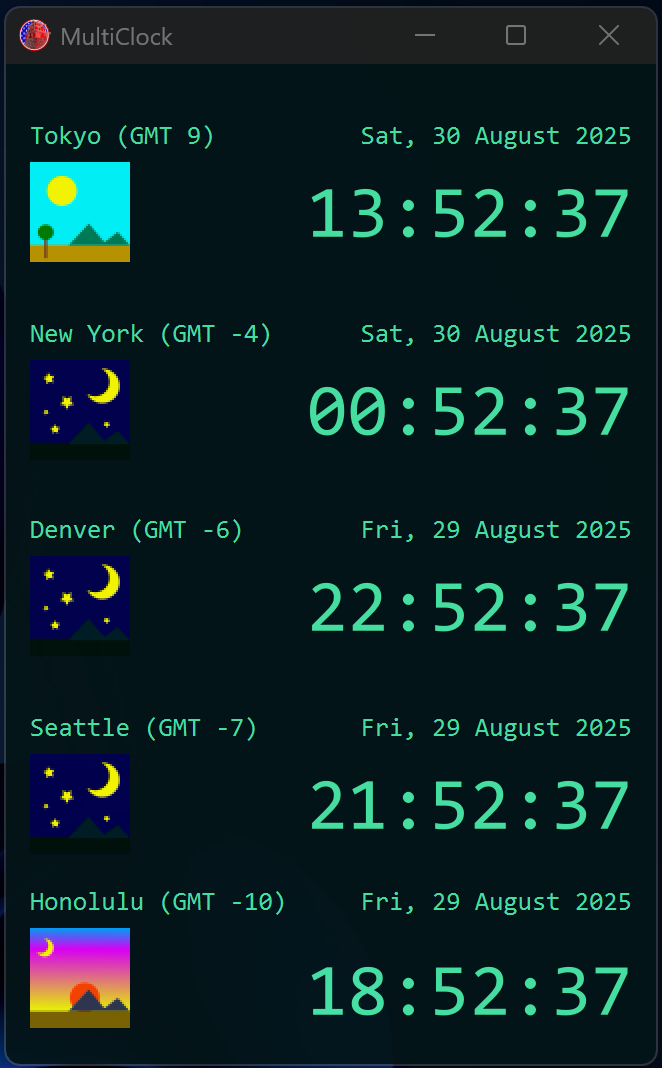
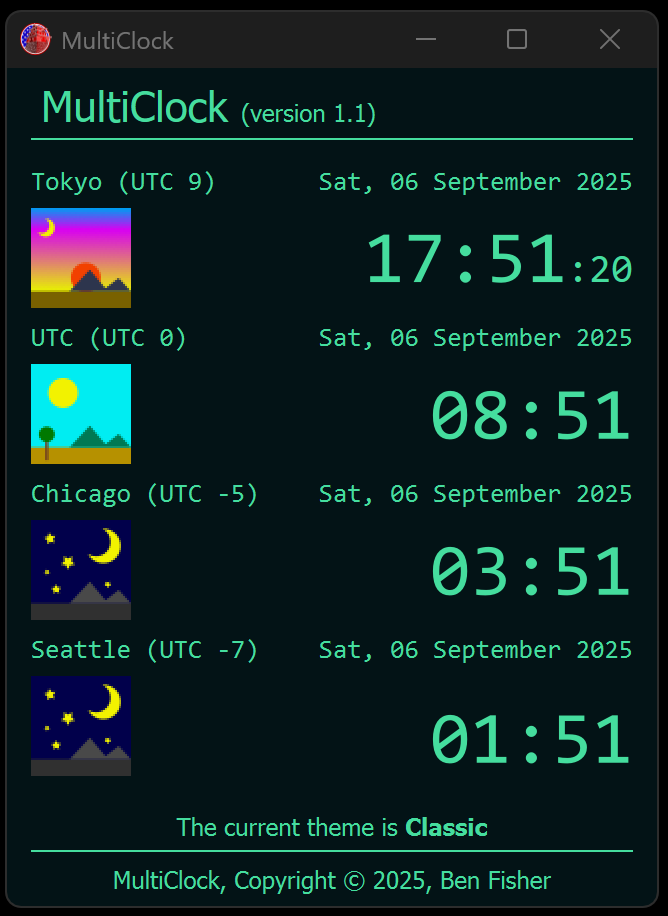
analog clock

diff --git a/multiclock_analog.py b/multiclock_analog.py
@@ -1,0 +1,233 @@
+__version__ = '1.1'
+
+from PyQt6.QtWidgets import (QApplication,
+                             QWidget,
+                             QHBoxLayout,
+                             QVBoxLayout,
+                             QGridLayout,
+                             QLabel)
+from PyQt6.QtCore import Qt, QTimer, QUrl
+from PyQt6.QtGui import QIcon, QFont, QPixmap
+from PyQt6.QtMultimedia import QAudioOutput, QMediaPlayer
+import sys, os
+import pytz
+from tzlocal import get_localzone
+from datetime import datetime
+from time import perf_counter, sleep
+import config
+from aclock import QAClock
+
+basedir = os.path.dirname(__file__)
+
+settings = config.load_settings()
+
+clocks = settings['clock.defaults.horizontal']['clocks']
+zones = [key for key in clocks.keys()]
+current_zone = str(get_localzone())
+
+theme_name = settings['selected_theme']
+
+def screen_size():
+    screen = QApplication.primaryScreen()
+    if screen:
+        geom = screen.geometry()
+    return (geom.width(), geom.height())
+
+def current_times(clocks=clocks):
+    times = []
+    for key in clocks.keys():
+        times.append(datetime.now(pytz.timezone(clocks[key])))
+    return times
+
+def utc_offset(timezone_name, dt_obj=None):
+    try:
+        tz = pytz.timezone(timezone_name)
+    except pytz.UnknownTimeZoneError:
+        return '?'
+    dt_obj = datetime.now(tz) if not None else tz.localize(dt_obj)
+    offset_timedelta = dt_obj.utcoffset()
+    if offset_timedelta is None:
+        return '?'
+    return int(offset_timedelta.total_seconds() / 3600)
+
+def get_utc_offsets(clocks=clocks):
+    offsets = {}
+    for key in clocks.keys():
+        offsets[key] = str(utc_offset(clocks[key]))
+    return offsets
+
+utc_offsets = get_utc_offsets(clocks)
+
+def full_path(rel_path):
+    return os.path.abspath(rel_path)
+
+class Window(QWidget):
+    def __init__(self) -> None:
+        super().__init__()
+
+        self.setWindowTitle(settings['window.defaults']['title'])
+
+        window_height = 1
+        window_width = int(175 * len(clocks))
+        screen_width, screen_height = screen_size()
+        left = screen_width - window_width - 20
+        #top = (screen_height - window_height) // 2
+        top = 40
+
+        self.setGeometry(left, top, window_width, window_height)
+        self.setWindowIcon(QIcon(settings['window.defaults']['icon']))
+        self.setStyleSheet(f'background: {settings['themes'][theme_name]['window.background']};')
+        self.setWindowOpacity(settings['window.defaults']['opacity'])
+
+        self.night = QPixmap('./assets/night.png')
+        self.dawn = QPixmap('./assets/dawn.png')
+        self.day = QPixmap('./assets/day.png')
+        self.dusk = QPixmap('./assets/dusk.png')
+
+        self.create_clocks()
+        self.update_time()
+
+        # The following function aligns the timer to the computer clock within milliseconds
+        self.align_time()
+
+        timer = QTimer(self)
+        timer.timeout.connect(lambda: self.update_time())
+        timer.start(settings['window.defaults']['timer'])
+
+    def create_clocks(self):
+        global_vbox = QVBoxLayout()
+
+
+        hbox = QHBoxLayout()
+        # hbox.setContentsMargins(0, 12, 0, 12)
+
+        main_label = QLabel()
+        main_label.setText(f'MultiClock <span style="font-size: 12px;">(version {__version__})</span>')
+        main_label.setMaximumHeight(60)
+        main_label.setFont(QFont('Aptos Narrow', 16))
+        main_label.setStyleSheet(f'color: {settings['themes'][theme_name]['zone']['font.color']}; border-bottom: 1px solid {settings['themes'][theme_name]['zone']['font.color']}; padding-bottom: 3px; margin-bottom: 6px;')
+        main_label.setAlignment(Qt.AlignmentFlag.AlignLeft | Qt.AlignmentFlag.AlignVCenter)
+        global_vbox.addWidget(main_label)
+
+        global_vbox.addLayout(hbox)
+
+        self.tz_names = []
+        self.tz_dates = []
+        self.tz_aclocks = []
+        self.tz_clocks = []
+        self.tz_vboxes = []
+
+        # Initialize Qlabels for each Timezone in Clocks
+        for key in clocks.keys():
+            self.tz_names.append(QLabel())
+            self.tz_dates.append(QLabel())
+            self.tz_aclocks.append(QAClock())
+            self.tz_clocks.append(QLabel())
+            self.tz_vboxes.append(QVBoxLayout())
+
+        for tz_vbox in self.tz_vboxes:
+            hbox.addLayout(tz_vbox)
+
+        theme = settings['themes'][theme_name]
+        align = settings['clock.align.horizontal']
+
+        # Set formats for labels
+        for tz_name, tz_date, tz_aclock, tz_clock, tz_vbox, zone in \
+            zip(self.tz_names, self.tz_dates, self.tz_aclocks, self.tz_clocks, self.tz_vboxes, zones):
+
+            tz_name.setStyleSheet(f'background: {theme['zone']['background']}; color: {theme['zone']['font.color']};')
+            tz_name.setFont(QFont(theme['zone']['font'], theme['zone']['font.size'], theme['zone']['font.weight']))
+            tz_name.setAlignment(Qt.AlignmentFlag(align['zone']['horizontal']) | Qt.AlignmentFlag(align['zone']['vertical']))
+            tz_name.setText(zone)
+
+            tz_date.setStyleSheet(f'background: {theme['date']['background']}; color: {theme['date']['font.color']};')
+            tz_date.setFont(QFont(theme['date']['font'], theme['date']['font.size'], theme['date']['font.weight']))
+            tz_date.setAlignment(Qt.AlignmentFlag(align['date']['horizontal']) | Qt.AlignmentFlag(align['date']['vertical']))
+            
+            # tz_img.setStyleSheet(f'background: {theme['date']['background']}; color: {theme['date']['font.color']}; height: 50; width: 50;')
+
+            tz_clock.setStyleSheet(f'background: {theme['clock']['background']}; color: {theme['clock']['font.color']};')
+            tz_clock.setFont(QFont(theme['clock']['font'], theme['clock']['font.size'], theme['clock']['font.weight']))
+            tz_clock.setAlignment(Qt.AlignmentFlag(align['clock']['horizontal']) | Qt.AlignmentFlag(align['clock']['vertical']))
+
+            tz_vbox.addWidget(tz_name)
+            tz_vbox.addWidget(tz_date)
+            tz_vbox.addWidget(tz_aclock.label)
+            tz_vbox.addWidget(tz_clock)
+
+
+        theme_label = QLabel()
+        theme_label.setMaximumHeight(20)
+        theme_label.setText(f'The current theme is <span style="font-weight: bold;">{settings['selected_theme'].title()}</span>')
+        theme_label.setFont(QFont('Aptos Narrow', 9))
+        theme_label.setStyleSheet(f'color: {theme['zone']['font.color']}; border-bottom: 1px solid {theme['zone']['font.color']}; padding-bottom: 3px;')
+        theme_label.setAlignment(Qt.AlignmentFlag.AlignHCenter | Qt.AlignmentFlag.AlignBottom)
+        global_vbox.addWidget(theme_label)
+
+
+
+        static = QLabel()
+        static.setMaximumHeight(15)
+        static.setText(f'MultiClock, Copyright © 2025, Ben Fisher')
+        static.setFont(QFont('Aptos Narrow', 9))
+        static.setStyleSheet(f'color: {theme['zone']['font.color']};')
+        static.setAlignment(Qt.AlignmentFlag.AlignHCenter | Qt.AlignmentFlag.AlignBottom)
+        global_vbox.addWidget(static)
+
+
+        self.setLayout(global_vbox)
+
+
+
+    def update_time(self):
+
+        _test_chime = False
+
+        for zone, tz_name, tz_date, tz_aclock, tz_clock, current_time in \
+            zip(zones, self.tz_names, self.tz_dates, self.tz_aclocks, self.tz_clocks, current_times(clocks)):
+            tz_name.setText(zone + ' (UTC ' + utc_offsets[zone] + ')')
+            tz_date.setText(current_time.strftime(settings['clock.defaults']['date.format']))
+            if clocks[zone] == current_zone:
+                tz_clock.setText(current_time.strftime('%H:%M') + f'<span style="font-size: 20px;">:{current_time.strftime('%S')}</span>')
+            else:
+                tz_clock.setText(current_time.strftime(settings['clock.defaults']['time.format']))
+            tz_aclock.draw_clock(current_time)
+        if _test_chime:
+            if datetime.now().second == 59 + settings['clock.defaults']['chime.offset']:
+                self.play_chime()
+        if datetime.now().minute == 59 and \
+            datetime.now().second == 59 + settings['clock.defaults']['chime.offset']:
+                if datetime.now().hour > 7 and datetime.now().hour < 22:
+                # The chime is overridden (silent mode) between 22:00 to 08:00 the next day
+                    self.play_chime()
+
+    def play_chime(self):
+        self.player = QMediaPlayer()
+        self.audio_output = QAudioOutput()
+        self.player.setAudioOutput(self.audio_output)
+        self.player.setSource(QUrl.fromLocalFile(full_path(settings['clock.defaults']['chime'])))
+        self.audio_output.setVolume(settings['clock.defaults']['chime.volume'])
+        self.player.play()
+
+    # def set_image(self, image_host: QLabel, current_time):
+    #     if current_time.hour >= 5 and current_time.hour < 8:
+    #         image_host.setPixmap(self.dawn)
+    #     elif current_time.hour >= 8 and current_time.hour < 17:
+    #         image_host.setPixmap(self.day)
+    #     elif current_time.hour >= 17 and current_time.hour < 19:
+    #         image_host.setPixmap(self.dusk)
+    #     else:
+    #         image_host.setPixmap(self.night)
+    #     image_host.setScaledContents(False)
+
+    def align_time(self):
+        """This function aligns the application timer and the now() time."""
+        sleep(1 - perf_counter() % 1)
+
+
+if __name__ == '__main__':
+    app = QApplication(sys.argv)
+    app.setWindowIcon(QIcon(os.path.join(basedir, settings['window.defaults']['icon'])))
+    window = Window()
+    window.show()
+    sys.exit(app.exec())

diff --git a/aclock.py b/aclock.py
@@ -1,0 +1,98 @@
+from PyQt6.QtWidgets import QWidget, QApplication, QMainWindow, QLabel, QMainWindow
+from PyQt6.QtGui import QPixmap, QPainter, QPen, QColor
+from PyQt6.QtCore import Qt, QRectF, QPointF, QTimer
+import sys, math
+from datetime import datetime, timedelta
+import config
+
+settings = config.load_settings()
+clocks = settings['clock.defaults']['clocks']
+theme_name = settings['selected_theme']
+
+size = 125
+pad = 5
+center = QPointF(size / 2, size / 2)
+min_hand = (size - pad * 4) / 2
+hour_hand = min_hand * 0.6
+
+class QAClock(QWidget):
+    def __init__(self):
+        super().__init__()
+
+        self.label = QLabel()
+        canvas = QPixmap(size, size)
+        canvas.fill(Qt.GlobalColor.transparent)
+        self.label.setAlignment(Qt.AlignmentFlag.AlignHCenter)
+
+        self.label.setPixmap(canvas)
+        self.draw_clock(datetime.now())
+
+    def draw_clock(self, draw_time: datetime):
+        canvas = self.label.pixmap()
+        canvas.fill(Qt.GlobalColor.transparent)
+        painter = QPainter(canvas)
+        bezel_pen = QPen()
+        bezel_pen.setWidth(1)
+        bezel_pen.setColor(QColor(settings['themes'][theme_name]['clock']['font.color']))
+
+        painter.setPen(bezel_pen)
+
+        bound_box = QRectF(pad, pad,
+                           size - pad * 2,
+                           size - pad * 2)
+        painter.drawEllipse(bound_box)
+
+        tick_pen = QPen()
+        tick_pen.setWidth(2)
+        tick_pen.setColor(QColor('#777'))
+        painter.setPen(tick_pen)
+
+        ticks = list(range(12))
+        for tick in ticks:
+            angle = 360 / 12 * tick
+            angle_r = math.radians(angle - 90)
+            tick_start = QPointF(center.x() + min_hand * 0.9 * math.cos(angle_r), 
+                                 center.y() + min_hand * 0.9 * math.sin(angle_r))
+            tick_tip = QPointF(center.x() + min_hand * math.cos(angle_r), 
+                               center.y() + min_hand * math.sin(angle_r))
+            painter.drawLine(tick_start, tick_tip)
+
+        sec_pen = QPen()
+        sec_pen.setWidth(1)
+        sec_pen.setColor(QColor('tomato'))
+        painter.setPen(sec_pen)
+        
+        angle = 360 / 60 * draw_time.second
+        angle_r = math.radians(angle - 90)
+        sec_tip = QPointF(center.x() + min_hand * 0.95 * math.cos(angle_r), 
+                          center.y() + min_hand * 0.95 * math.sin(angle_r))
+
+        painter.drawLine(center, sec_tip)
+
+        min_pen = QPen()
+        min_pen.setWidth(2)
+        min_pen.setColor(QColor(settings['themes'][theme_name]['clock']['font.color']))
+        painter.setPen(min_pen)
+        
+        angle = 360 / 60 * draw_time.minute
+        angle_r = math.radians(angle - 90)
+        min_tip = QPointF(center.x() + min_hand * math.cos(angle_r), 
+                          center.y() + min_hand * math.sin(angle_r))
+
+        painter.drawLine(center, min_tip)
+
+        hour_pen = QPen()
+        hour_pen.setWidth(4)
+        hour_pen.setColor(QColor(settings['themes'][theme_name]['clock']['font.color']))
+        painter.setPen(hour_pen)
+
+        angle = 360 / 12 * (draw_time.hour + draw_time.minute / 60)
+        angle_r = math.radians(angle - 90)
+        hour_tip = QPointF(center.x() + hour_hand * math.cos(angle_r), 
+                           center.y() + hour_hand * math.sin(angle_r))
+        
+        painter.drawLine(center, hour_tip)
+
+        painter.end()
+        self.label.setPixmap(canvas)
+        

diff --git a/config.py b/config.py
@@ -10,7 +10,6 @@ from PyQt6.QtGui import QFont
 clocks = {
     'Tokyo': 'Asia/Tokyo',
     'UTC': 'UTC',
-    'New York': 'US/Eastern',
     'Chicago': 'US/Central',
     'Seattle': 'US/Pacific',
     'Hawaii': 'US/Hawaii'
@@ -27,7 +26,15 @@ fallback_settings = {
     },
     'clock.defaults': {
         'clocks': clocks,
-        'date.format': '%a, %d %B %Y',
+        'date.format': '%a, %d %b %Y',
+        'time.format': '%H:%M',
+        'chime': './assets/jihou-sine-3f.mp3',
+        'chime.offset': -4,
+        'chime.volume': 100
+    },
+    'clock.defaults.horizontal': {
+        'clocks': clocks,
+        'date.format': '%a, %d %M %Y',
         'time.format': '%H:%M',
         'chime': './assets/jihou-sine-3f.mp3',
         'chime.offset': -4,
@@ -45,6 +52,20 @@ fallback_settings = {
         'clock': {
             'horizontal': Qt.AlignmentFlag.AlignRight,
             'vertical': Qt.AlignmentFlag.AlignCenter
+        }
+    },
+    'clock.align.horizontal': {
+        'zone': {
+            'horizontal': Qt.AlignmentFlag.AlignHCenter,
+            'vertical': Qt.AlignmentFlag.AlignVCenter
+        },
+        'date': {
+            'horizontal': Qt.AlignmentFlag.AlignHCenter,
+            'vertical': Qt.AlignmentFlag.AlignVCenter
+        },
+        'clock': {
+            'horizontal': Qt.AlignmentFlag.AlignHCenter,
+            'vertical': Qt.AlignmentFlag.AlignVCenter
         }
     },
     'selected_theme': 'classic',
